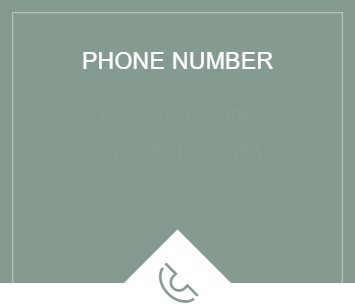
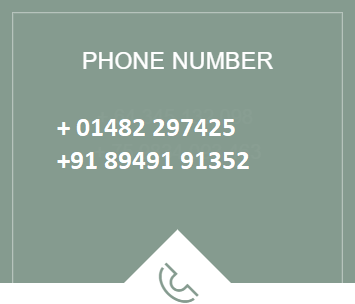
contact page form added , images edited

Changed region(s): [[0.1549, 0.5033, 0.7127, 0.5625], [0.1549, 0.3849, 0.6817, 0.4737]]

diff --git a/contact.html b/contact.html
@@ -76,6 +76,7 @@
       <div class="contact row py-5 w-100">
            <div class="col-md-3 img-1" >
                <img src="./images/contact/img1.png" alt="" width="285" height="239px" >
+            
            </div>
            <div class="col-md-3 img-2">
                <img src="./images/contact/img2.png" alt="" width="285" height="240">
@@ -94,13 +95,65 @@
   
      <div class="section3 container my-3  text-center w-100">
             <h2>CONTACT INFORMATION</h2>
-            <p>Misty Mount Reservations is active from 06.00 am to 06.00 pm Indian Standard Time. From  0600 pm to 0600 am, contact admin at +91 1234567890 Email: reservations@Mistymount.com</p>
+            <p>SHRILOK Reservations is active from 09.00 am to 09.00 pm Indian Standard Time. From  09:00 pm to 09:00 am, contact admin at +91 8949191352     Email: reservations.shrilok@gmail.com</p>
      </div>
   
 
 <!--section-3 ends-->
-    
+
+ <!--section-4 starts-->
+<div class="row w-100 mx-0" style="overflow: hidden; padding-top: 40px; ">
+    <div class="form col-md-6 py-5 w-100" >
+    <h4> SEND US MESSAGE</h4>
+        <form class="gform pure-form pure-form-stacked" method="POST" data-email="example@email.net"
+  action="https://script.google.com/macros/s/AKfycbwENPmBonU7kZ1ygdBlyqqUywo-ztjSHSQZMa5qmNcDKIoBkeR3/exec">
+    <!-- change the form action to your script url -->
+
+    <div class="form-elements">
+      <fieldset class="pure-group d-inline-block" >
+        <input class="input my-2 py-2 px-1" id="name" name="name" placeholder="What your Mom calls you" />
+      </fieldset>
+
+     <fieldset class="pure-group d-inline-block" >
+        <input class="input my-2 py-2 px-1 mx-2" id="email" name="email" type="email" 
+        required placeholder="Your Email Address"/>
+      </fieldset>
+       <fieldset class="pure-group d-inline-block" >
+        <input class="input my-2 py-2 px-1" id="phone" name="phone" type="tel" placeholder="Contact Number" />
+      </fieldset>
+
+     <fieldset class="pure-group d-inline-block" >
+        <input class="input my-2 py-2 px-1 mx-2" id="subject" name="subject" type="text" 
+        required placeholder="Subject"/>
+      </fieldset>
+      
+      <fieldset class="pure-group">
+       
+        <textarea class="message my-2 py-2 px-1" id="message" name="message" rows="7"
+        placeholder="Tell us what's on your mind..."></textarea>
+      </fieldset>
+
+      <button class="button-success pure-button button-xlarge">
+        <i class="fa fa-paper-plane p-2"></i>&nbsp;Send Enquiry</button>
+    </div>
+
+    <!-- Customise the Thankyou Message People See when they submit the form: -->
+    <div class="thankyou_message" style="display:none; color: white;">
+      <h2 class="lead p-2 mt-3"><em>Thanks</em> for contacting us!
+        We will get back to you soon!</h2>
+    </div>
+
+  </form>
+
+    </div>
+    <div class="col-md-6 px-0  ">
+          <iframe  class="w-100" style=" margin-bottom: -10px;" src="https://www.google.com/maps/embed?pb=!1m18!1m12!1m3!1d3606.992752049475!2d74.65899571501174!3d25.304447583846358!2m3!1f0!2f0!3f0!3m2!1i1024!2i768!4f13.1!3m3!1m2!1s0x3968c141d7afc1dd%3A0x419961db0e2458c9!2sShrilok%20The%20Heritage%20Resort!5e0!3m2!1sen!2sin!4v1568138384932!5m2!1sen!2sin" width="600" height="500" frameborder="0" style="border:0;" allowfullscreen=""></iframe>
+    </div>
+</div>
+<!--section-4 ends-->   
+            
 <!--section-4 starts-->
+<!--
 <div class="row w-100 mx-0" style="overflow: hidden; padding-top: 40px; ">
     <div class="form col-md-6 py-5 w-100" >
     <h4> SEND US MESSAGE</h4>
@@ -117,10 +170,10 @@
     </form>
     </div>
     <div class="col-md-6 px-0  ">
-       <iframe class="w-100" src="https://www.google.com/maps/embed?pb=!1m18!1m12!1m3!1d3606.99033817322!2d74.65854231484761!3d25.304528683846325!2m3!1f0!2f0!3f0!3m2!1i1024!2i768!4f13.1!3m3!1m2!1s0x3968c18627f5cbd9%3A0xae633b4549019d86!2sShrilok+The+Haritage+Resort!5e0!3m2!1sen!2sin!4v1557983753613!5m2!1sen!2sin" width="600" height="500" frameborder="0" style="border:0" allowfullscreen></iframe>
-<!--        <img src="./images/contact/map.png" alt="">-->
+          <iframe  class="w-100" style=" margin-bottom: -10px;" src="https://www.google.com/maps/embed?pb=!1m18!1m12!1m3!1d3606.992752049475!2d74.65899571501174!3d25.304447583846358!2m3!1f0!2f0!3f0!3m2!1i1024!2i768!4f13.1!3m3!1m2!1s0x3968c141d7afc1dd%3A0x419961db0e2458c9!2sShrilok%20The%20Heritage%20Resort!5e0!3m2!1sen!2sin!4v1568138384932!5m2!1sen!2sin" width="600" height="500" frameborder="0" style="border:0;" allowfullscreen=""></iframe>
     </div>
 </div>
+-->
 <!--section-4 ends-->
 
 	     <!--Footer start  -->
@@ -231,6 +284,11 @@
 
 	<script>
 	</script>
+	
+<!--	form-->
+
+<script data-cfasync="false" type="text/javascript"
+src="https://cdn.rawgit.com/dwyl/html-form-send-email-via-google-script-without-server/master/form-submission-handler.js"></script>
 
 </body>
 

diff --git a/css/contactus.css b/css/contactus.css
@@ -106,7 +106,7 @@
     background-color: #54675c;
     border: none;
     color: honeydew;
-    margin-left: 415px;
+    margin-left: 400px;
 }
 .form button:hover{
     background-color: #696b72;
